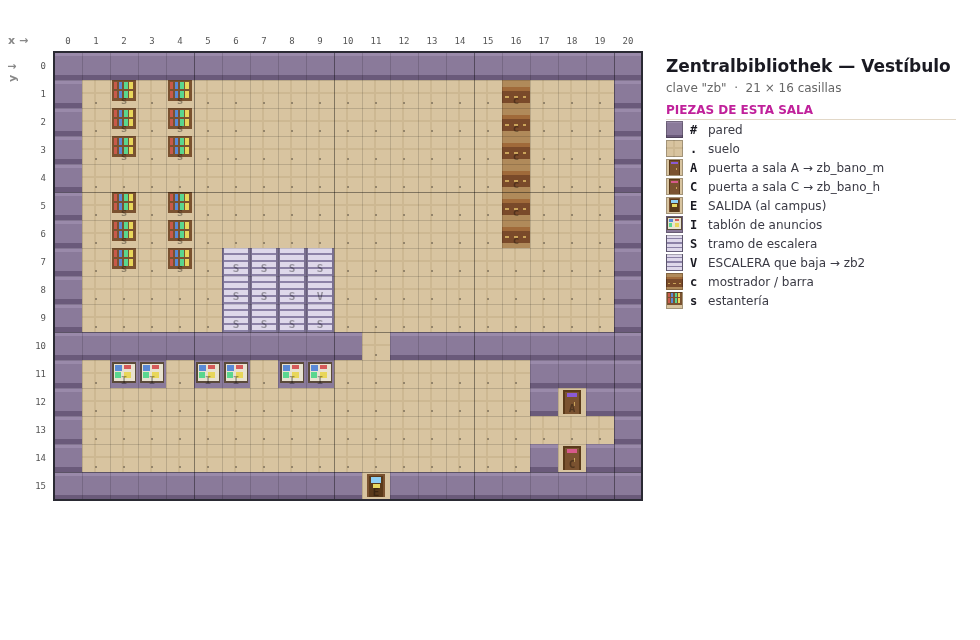
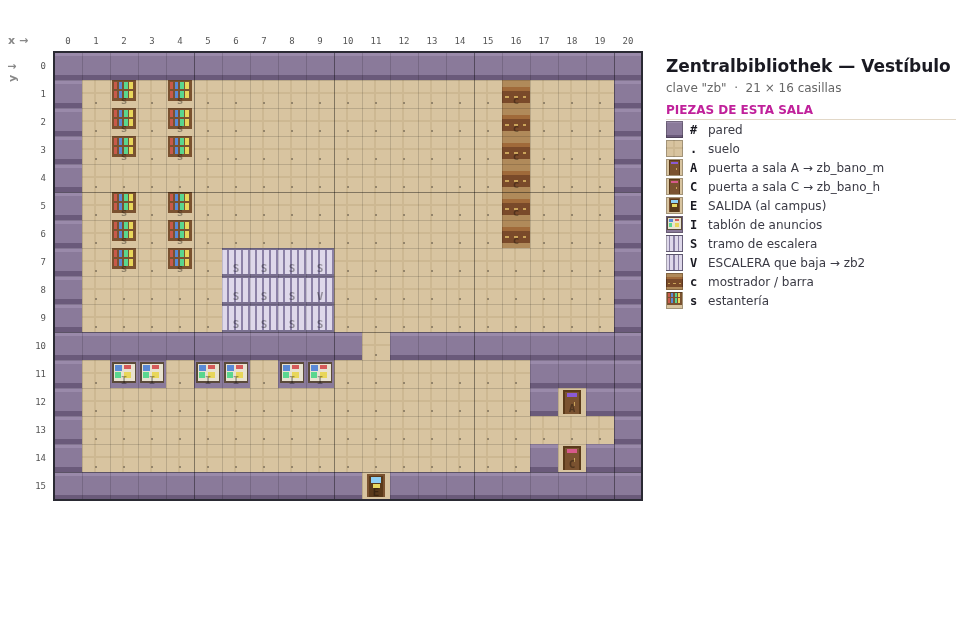
Dibujar los peldaños perpendiculares al sentido de subida
El tile de escalera pintaba siempre las líneas horizontales. En la Mensa,
que se sube en vertical, eso es correcto: se cruzan los peldaños de frente.
En la biblioteca, que se sube andando de lado, salía caminando en paralelo
a las líneas, que no es como se sube una escalera.

drawInTile recibe ahora si la casilla pertenece a un tramo horizontal, y en
ese caso pinta los peldaños en vertical y las zancas arriba y abajo en vez
de a los lados. El conjunto de casillas horizontales lo calcula
marcarEscaleras() al cargar cada sala, con el mismo criterio de forma que
ya usaba dirEscalera(), así que dibujo y movimiento no pueden discrepar.

tools/sala.js hace el mismo cálculo para que los planos de sala coincidan
con el juego.

Claude-Session: https://claude.ai/code/session_01MUkCxWMxEAWrFgXYAJ3j4N

Changed region(s): [[0.2143, 0.375, 0.3367, 0.5312], [0.6735, 0.375, 0.7041, 0.4375]]

diff --git a/index.html b/index.html
@@ -1382,7 +1382,7 @@ function drawOutTile(t,sx,sy,tx,ty){
 //==================================================================
 //  TILES interior
 //==================================================================
-function drawInTile(t,sx,sy,patio){
+function drawInTile(t,sx,sy,patio,horiz){
   const F=(c)=>{ctx.fillStyle=c;ctx.fillRect(sx,sy,TILE,TILE);};
   const R=(c,x,y,w,h)=>{ctx.fillStyle=c;ctx.fillRect(sx+x,sy+y,w,h);};
   if(patio){
@@ -1474,9 +1474,17 @@ function drawInTile(t,sx,sy,patio){
       F('#3a3a4a'); R('#eceef2',1,1,14,12); R('#c8d0dc',2,2,12,10); // pantalla clara
       R('#8fb0d8',3,3,5,4); R('#d8a05a',9,4,3,3); R('#6a8a5a',4,8,7,2); return; } // "diapositiva"
     case 'S': case 'V': case 'U': { // tramo de escalera
+      // Los peldanos van siempre perpendiculares al sentido de subida, que
+      // es como se ve una escalera de verdad: si se sube andando de lado,
+      // las lineas son verticales, y las zancas pasan a estar arriba y abajo.
       F('#a89ec0');
-      for(let i=0;i<4;i++){ R('#ded8ea',0,i*4,TILE,3); R('#8b81a6',0,i*4+3,TILE,1); }
-      R('#7a7090',0,0,1,TILE); R('#7a7090',TILE-1,0,1,TILE);   // zancas
+      if(horiz){
+        for(let i=0;i<4;i++){ R('#ded8ea',i*4,0,3,TILE); R('#8b81a6',i*4+3,0,1,TILE); }
+        R('#7a7090',0,0,TILE,1); R('#7a7090',0,TILE-1,TILE,1);
+      } else {
+        for(let i=0;i<4;i++){ R('#ded8ea',0,i*4,TILE,3); R('#8b81a6',0,i*4+3,TILE,1); }
+        R('#7a7090',0,0,1,TILE); R('#7a7090',TILE-1,0,1,TILE);
+      }
       return; }
     case 'X': F('#d8c4a0'); R('#7a5230',3,2,10,12); R('#5a3a1a',4,3,8,11); R('#e8d860',6,6,4,2); return; // salida a hub
     case 'E': F('#d8c4a0'); R('#7a5230',3,1,10,13); R('#5a3a1a',4,2,8,12); R('#8fd0f5',5,3,6,3); R('#e8d860',6,7,4,2); return; // salida al campus
@@ -1898,6 +1906,19 @@ function avanzarGuion(){
   player.dir = nx>player.x?'right' : nx<player.x?'left' : ny>player.y?'down' : 'up';
   player.tx=nx; player.ty=ny; player.moving=true;
 }
+// casillas de escalera que pertenecen a un tramo que se sube en horizontal
+let escalerasH=new Set();
+function marcarEscaleras(g){
+  const s=new Set();
+  if(!Array.isArray(g)||!g.length) return s;
+  for(let y=0;y<g.length;y++)for(let x=0;x<g[0].length;x++){
+    const c=g[y][x];
+    if(c!=='S'&&c!=='V'&&c!=='U') continue;
+    const t=tramoEscalera(g,x,y);
+    if((t.x1-t.x0)>(t.y1-t.y0)) s.add(x+','+y);
+  }
+  return s;
+}
 // bordes del tramo de escalera al que pertenece una casilla
 function tramoEscalera(g,x,y){
   const es=(a,b)=>{const c=(g[b]||'')[a]; return c==='S'||c==='V'||c==='U';};
@@ -1954,7 +1975,7 @@ function loadScene(key,at,dir){
   // cargar una posicion del mapa exterior.
   if(key==='outdoor'){
     scene='outdoor'; map=OUTDOOR; mapW=OUTDOOR[0].length; mapH=OUTDOOR.length;
-    npcs=OUT_NPCS; patioMode=false;
+    npcs=OUT_NPCS; patioMode=false; escalerasH=new Set();
     player.x=at?at[0]:39; player.y=at?at[1]:31;
     player.px=player.x*TILE; player.py=player.y*TILE;
     player.tx=player.x; player.ty=player.y; player.dir=dir||'up'; player.moving=false;
@@ -1965,6 +1986,7 @@ function loadScene(key,at,dir){
   scene=key; const I=INTERIORS[key];
   map=I.grid; mapW=map[0].length; mapH=map.length;
   npcs=I.npcs||[]; patioMode=!!I.isPatio;   // una sala sin NPCs no debe romper el render
+  escalerasH=marcarEscaleras(map);
   player.x=at[0];player.y=at[1];player.px=player.x*TILE;player.py=player.y*TILE;
   player.tx=player.x;player.ty=player.y;player.dir=dir||'up';player.moving=false;
   showToast(I.name);
@@ -2117,7 +2139,7 @@ function render(){
     const t=tileAt(mx,my);
     const sx=tx*TILE-offX, sy=ty*TILE-offY;
     if(scene==='outdoor') drawOutTile(t,sx,sy,mx,my);
-    else drawInTile(t,sx,sy,patioMode);
+    else drawInTile(t,sx,sy,patioMode, escalerasH.has(mx+','+my));
   }
   // entidades ordenadas por Y (edificios, NPCs y jugador comparten orden de profundidad)
   const ents=[];

diff --git a/tools/sala.js b/tools/sala.js
@@ -13,7 +13,20 @@ const stD=s.indexOf('function drawInTile'), enD=s.indexOf('//  ESTADO');
 let fn=s.slice(stD,enD); fn=fn.slice(0,fn.lastIndexOf('}')+1);
 let marca=null;
 if(process.argv[3]){ const p=process.argv[3].split(','); marca=[+p[0],+p[1],+p[2],+p[3],p.slice(4).join(',')]; }
-const payload={clave,I,drawInTileSrc:fn,marca,nota:process.argv[4]?process.argv[4].split('|'):null};
+// que peldanos pertenecen a un tramo que se sube en horizontal, para
+// dibujarlos con las lineas perpendiculares al sentido de subida
+const g=I.grid, esc=(x,y)=>{const c=(g[y]||'')[x]; return c==='S'||c==='V'||c==='U';};
+const escH=[];
+for(let y=0;y<g.length;y++)for(let x=0;x<g[0].length;x++){
+  if(!esc(x,y)) continue;
+  let x0=x,x1=x,y0=y,y1=y; const vis=new Set([x+','+y]), cola=[[x,y]];
+  while(cola.length){ const [a,b]=cola.pop();
+    x0=Math.min(x0,a);x1=Math.max(x1,a);y0=Math.min(y0,b);y1=Math.max(y1,b);
+    for(const [dx,dy] of [[0,-1],[0,1],[-1,0],[1,0]]){ const k=(a+dx)+','+(b+dy);
+      if(!vis.has(k)&&esc(a+dx,b+dy)){ vis.add(k); cola.push([a+dx,b+dy]); } } }
+  if((x1-x0)>(y1-y0)) escH.push(x+','+y);
+}
+const payload={clave,I,drawInTileSrc:fn,marca,escH,nota:process.argv[4]?process.argv[4].split('|'):null};
 const tpl=fs.readFileSync(path.join(__dirname,'sala-template.html'),'utf8');
 const out=path.join(__dirname,'.sala-render.html');
 fs.writeFileSync(out, tpl.replace('DATA_PLACEHOLDER', JSON.stringify(payload)));

diff --git a/tools/sala-template.html b/tools/sala-template.html
@@ -2,7 +2,8 @@
 html,body{margin:0;padding:0;background:#fff}canvas{display:block}
 </style></head><body><canvas id="c"></canvas><script>
 const D=DATA_PLACEHOLDER;
-const {clave,I,drawInTileSrc,marca,SOLID_IN,SOLID_PATIO}=D;
+const {clave,I,drawInTileSrc,marca,escH,SOLID_IN,SOLID_PATIO}=D;
+const ESCH=new Set(escH||[]);
 const g=I.grid, W=g[0].length, H=g.length;
 const TS=28, ML=54, MT=52, MR=330, MB=54;
 const cw=Math.max(ML+W*TS+MR, 920), ch=Math.max(MT+H*TS+MB, 420);
@@ -19,7 +20,7 @@ eval(drawInTileSrc);
 x.imageSmoothingEnabled=false;
 for(let ty=0;ty<H;ty++)for(let tx=0;tx<W;tx++){
   octx.clearRect(0,0,16,16);
-  try{ drawInTile(g[ty][tx],0,0,!!I.isPatio); }catch(e){}
+  try{ drawInTile(g[ty][tx],0,0,!!I.isPatio, ESCH.has(tx+','+ty)); }catch(e){}
   x.imageSmoothingEnabled=false;
   x.drawImage(off,T(tx),V(ty),TS,TS);
 }
@@ -79,7 +80,7 @@ const destino={}; (I.doors||[]).forEach(d=>{ destino[g[d.y][d.x]]=d.to; });
 const usados=[...new Set(g.join('').split(''))].sort();
 usados.forEach(ch2=>{
   octx.clearRect(0,0,16,16);
-  try{ drawInTile(ch2,0,0,!!I.isPatio); }catch(e){}
+  try{ drawInTile(ch2,0,0,!!I.isPatio, ESCH.size>0 && 'SVU'.includes(ch2)); }catch(e){}
   x.imageSmoothingEnabled=false; x.drawImage(off,LX,ly-13,17,17);
   x.strokeStyle='rgba(0,0,0,.25)';x.lineWidth=1;x.strokeRect(LX+.5,ly-12.5,16,16);
   x.font='bold 12px ui-monospace,monospace';x.fillStyle='#1a1a22';x.fillText(ch2,LX+24,ly);
